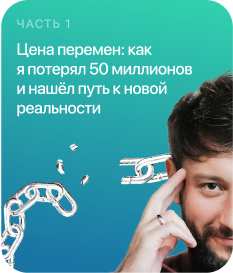
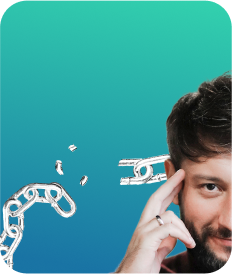
скоуп

diff --git a/src/pages/Main/components/PrivateMeditationClub/data.ts b/src/pages/Main/components/PrivateMeditationClub/data.ts
@@ -1,0 +1,87 @@
+import step1 from "@/assets/image/step1.png";
+import step2 from "@/assets/image/step2.png";
+import step3 from "@/assets/image/step3.png";
+import step4 from "@/assets/image/step4.png";
+import step5 from "@/assets/image/step5.png";
+import step6 from "@/assets/image/step6.png";
+import step7 from "@/assets/image/step7.png";
+import step8 from "@/assets/image/step8.png";
+import step9 from "@/assets/image/step9.png";
+import step10 from "@/assets/image/step10.png";
+import step11 from "@/assets/image/step11.png";
+import step12 from "@/assets/image/step12.png";
+
+export const stepData = [
+	{
+		topText: 'ШАГ 1',
+		title: 'Раскрытие глубинного потенциала: новый старт к себе',
+		description: 'Вдохновение и внутренний импульс  для выхода на новый финансовый  и личностный уровень.',
+		picture: step1,
+	},
+	{
+		topText: 'ШАГ 2',
+		title: 'Тонкие законы реальности: настройка на ваши мечты',
+		description: 'Больше осознанности в действиях, новые возможности для повышения доходов и реализации целей.',
+		picture: step2,
+	},
+	{
+		topText: 'ШАГ 3',
+		title: 'Настоящая сила: гармония вместо гонки',
+		description: 'Стабильность и уверенность, которые привлекают ресурсы и успех.',
+		picture: step3,
+	},
+	{
+		topText: 'ШАГ 4',
+		title: 'Личностный рост: устранение внутренних барьеров',
+		description: 'Лёгкость в принятии решений, возможность видеть больше путей для заработка и самореализации.',
+		picture: step4,
+	},
+	{
+		topText: 'ШАГ 5',
+		title: 'Синхронизация тела, разума и духа: быстрые изменения',
+		description: 'Больше энергии и ресурсов для работы, ощущение уверенности и контроля над ситуацией.',
+		picture: step5,
+	},
+	{
+		topText: 'ШАГ 6',
+		title: 'Перезагрузка на новом уровне: начало вашего пути',
+		description: 'Устойчивость и чувство свободы для смелых шагов к финансовой стабильности.',
+		picture: step6,
+	},
+	{
+		topText: 'ШАГ 7',
+		title: 'Углубление отношений  с родителями: внутренний ресурс поддержки',
+		description: 'Внутреннее спокойствие и сила для реализации амбициозных планов.',
+		picture: step7,
+	},
+	{
+		topText: 'ШАГ 8',
+		title: 'Родовая энергия:  ваш ресурс для роста',
+		description: 'Уверенность в будущем, устойчивый внутренний ресурс для профессионального  и финансового развития',
+		picture: step8,
+	},
+	{
+		topText: 'ШАГ 9',
+		title: 'Личный канал интуиции: связь с Высшим Я',
+		description: 'Ясность в действиях, чувство внутреннего покоя и способность направлять энергию на правильные цели.',
+		picture: step9,
+	},
+	{
+		topText: 'ШАГ 10',
+		title: 'Баланс духовного \n и материального: ключ  к изобилию',
+		description: 'Рост доходов, ощущение контроля над финансами и гармония между внутренними и внешними достижениями.',
+		picture: step10,
+	},
+	{
+		topText: 'ШАГ 11',
+		title: 'Глубина отношений: ключ \n к поддержке и вдохновению',
+		description: '',
+		picture: step11,
+	},
+	{
+		topText: 'ШАГ 12',
+		title: 'Полная самореализация: живите так, как мечтали',
+		description: 'Внутреннее удовлетворение, стабильность в доходах  и уверенность, что вы идёте  по своему пути.',
+		picture: step12,
+	},
+]

diff --git a/src/pages/Main/components/PrivateMeditationClub/PrivateMeditationClub.tsx b/src/pages/Main/components/PrivateMeditationClub/PrivateMeditationClub.tsx
@@ -15,12 +15,10 @@ import step11 from '@/assets/image/step11.png';
 import step12 from '@/assets/image/step12.png';
 import {useNavigate, useParams} from "react-router-dom";
 import {DEFAULT_COURSE_ID} from "@/store/user/data";
+import {stepData} from "@/pages/Main/components/PrivateMeditationClub/data";
 
 export const PrivateMeditationClub = () => {
 	const navigate = useNavigate();
-	const pictureData: string[] = [
-		step1, step2, step3, step4, step5, step6, step7, step8, step9, step10, step11, step12,
-	]
 
 	return (
 		<div className={css.container}>
@@ -47,9 +45,14 @@ export const PrivateMeditationClub = () => {
 				spaceBetween={6}
 				className={css.slider}
 			>
-				{pictureData.map((item, index) => (
+				{stepData.map((item, index) => (
 					<SwiperSlide className={css.slide} key={index}>
-						<StepCard pictureSrc={item} onButtonClick={() => navigate(`/twelveSteps/${index + 1}`)}/>
+						<StepCard
+							topText={item.topText}
+							title={item.title}
+							description={item.description}
+							onButtonClick={() => navigate(`/twelveSteps/${index + 1}`)}
+						/>
 					</SwiperSlide>
 				))}
 			</Swiper>

diff --git a/src/pages/Main/components/StepCard/StepCard.module.scss b/src/pages/Main/components/StepCard/StepCard.module.scss
@@ -7,7 +7,7 @@
 }
 
 .topText {
-  font-size: 8px;
+  font-size: 10px;
   font-weight: 500;
   letter-spacing: 0.11em;
   color: rgba(33, 40, 49, 0.4);
@@ -15,7 +15,7 @@
 }
 
 .title {
-  font-size: 14px;
+  font-size: 16px;
   font-weight: 600;
   line-height: 18.2px;
   letter-spacing: -0.011em;
@@ -27,7 +27,7 @@
 
 .description {
   color: rgba(33, 40, 49, 1);
-  font-size: 11px;
+  font-size: 13px;
   font-weight: 500;
   line-height: 13.2px;
   letter-spacing: -0.011em;
